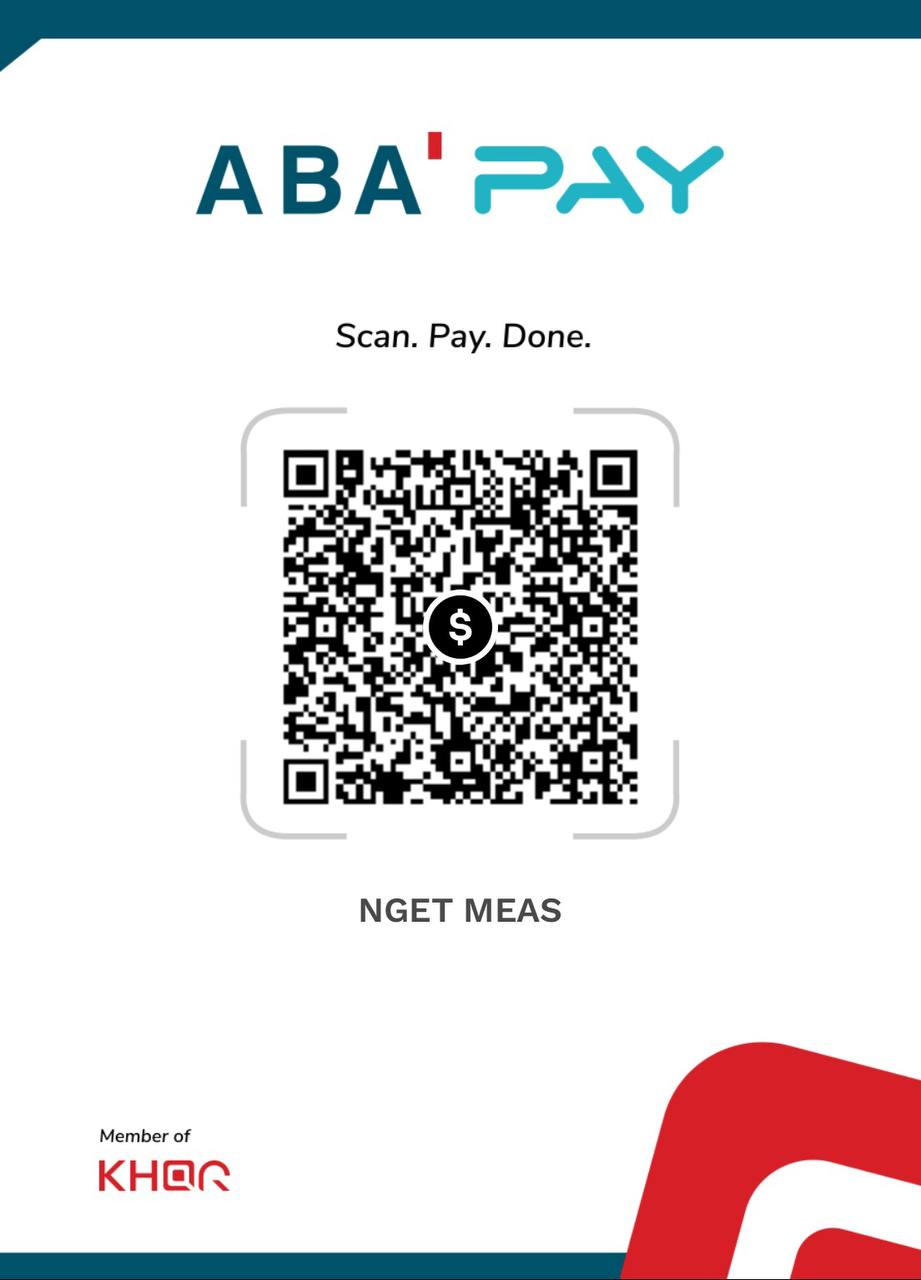
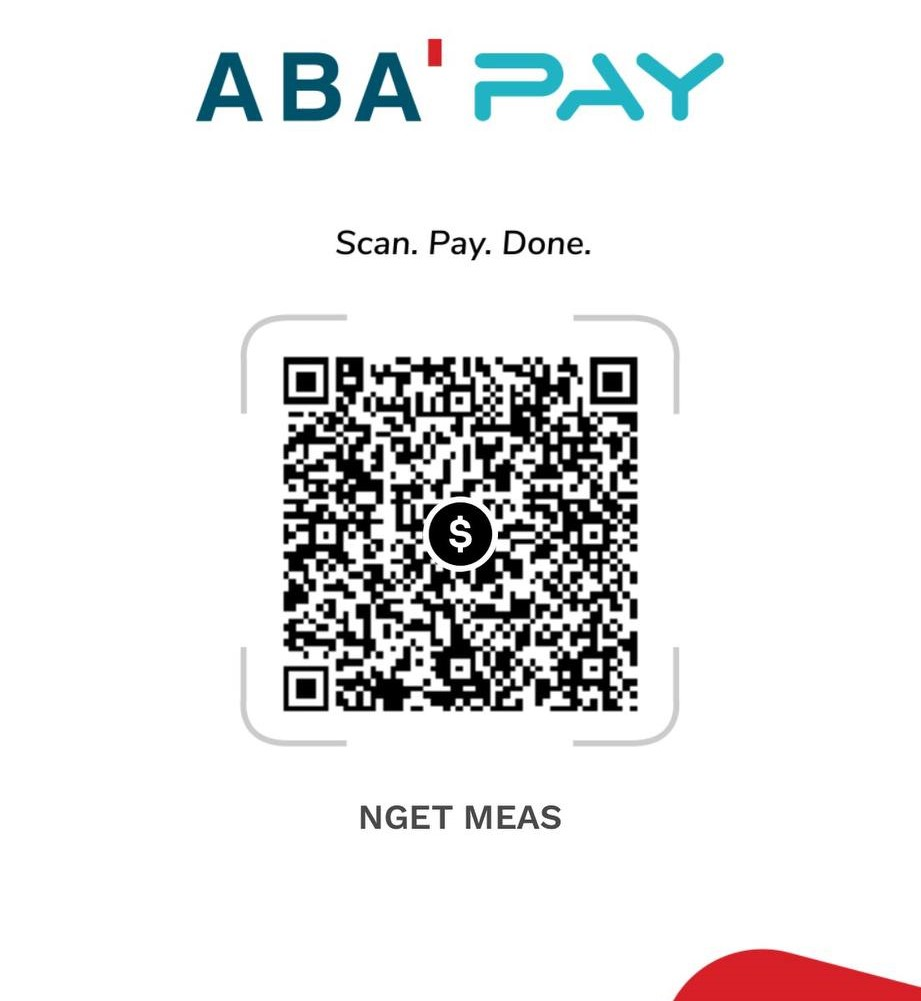
update

diff --git a/src/Components/Cart/CartPage.jsx b/src/Components/Cart/CartPage.jsx
@@ -1,10 +1,12 @@
 import React, { useContext, useState } from "react";
 import { CartContext } from "../Context/CartContext";
-import Qr from "../Cart/Qr.jpg"; // your QR image
+import QrUSD from "../Cart/Qr.jpg";   // USD QR
+import QrKHR from "../Cart/Qrkh.jpg"; // KHR QR
 
 const CartPage = ({ isOpen, closeCart }) => {
   const { cart, removeFromCart } = useContext(CartContext);
   const [showCheckout, setShowCheckout] = useState(false);
+  const [currency, setCurrency] = useState("USD"); // <-- add this
 
   const total = cart.reduce(
     (acc, item) => acc + item.price * (item.quantity || 1),
@@ -14,8 +16,12 @@ const CartPage = ({ isOpen, closeCart }) => {
   const handleCheckout = () => setShowCheckout(true);
   const handleCloseModal = () => setShowCheckout(false);
 
+  // select QR image based on currency
+  const qrImage = currency === "USD" ? QrUSD : QrKHR;
+
   return (
     <>
+      {/* Cart Sidebar */}
       <div
         className={`
           fixed top-0 right-0 h-screen w-[250px] md:w-[400px] bg-white shadow-lg z-50
@@ -95,20 +101,32 @@ const CartPage = ({ isOpen, closeCart }) => {
 
       {/* Checkout Modal */}
       {showCheckout && (
-        <div className="fixed inset-0 bg-opacity-50 flex items-center justify-center z-50">
-          <div className=" bg-gray-100 rounded shadow-lg text-center relative w-80">
+        <div className="fixed inset-0 bg-black/50 flex items-center justify-center z-50">
+          <div className="bg-gray-100 rounded shadow-lg text-center relative w-100 p-4">
             <button
               onClick={handleCloseModal}
               className="absolute top-2 right-2 text-xl font-bold hover:text-red-500"
             >
               &times;
             </button>
-            <h2 className="text-2xl font-bold mt-2 p-2 ">Thank for Order</h2>
+            <h2 className="text-2xl font-bold mt-2 p-2">Thank you for your order</h2>
             <h5 className="text-lg mb-2">Nice to meet you</h5>
+
+            {/* Currency Selector */}
+            <select
+              value={currency}
+              onChange={(e) => setCurrency(e.target.value)}
+              className="border rounded p-0 mb-1"
+            >
+              <option value="USD">USD</option>
+              <option value="KHR">៛ KHR</option>
+            </select>
+
+            {/* QR Image */}
             <img
-              src={Qr}
-              alt="ABA QR Code"
-              className="mx-auto w-100 h-90 object-cover p-2"
+              src={qrImage}
+              alt={`${currency} QR Code`}
+              className="mx-auto w-64 h-64 object-cover p-2"
             />
           </div>
         </div>
